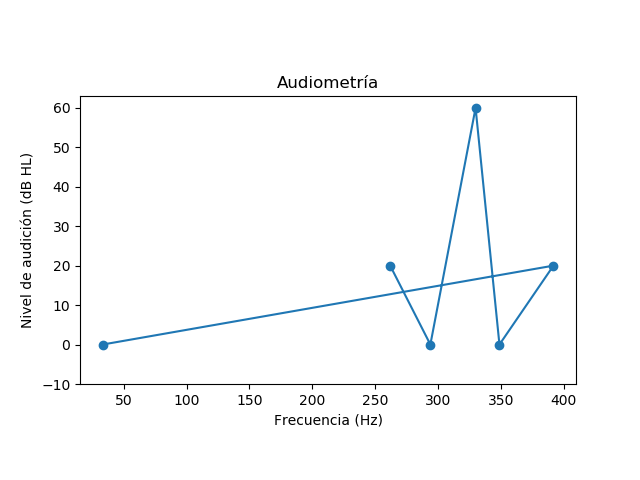
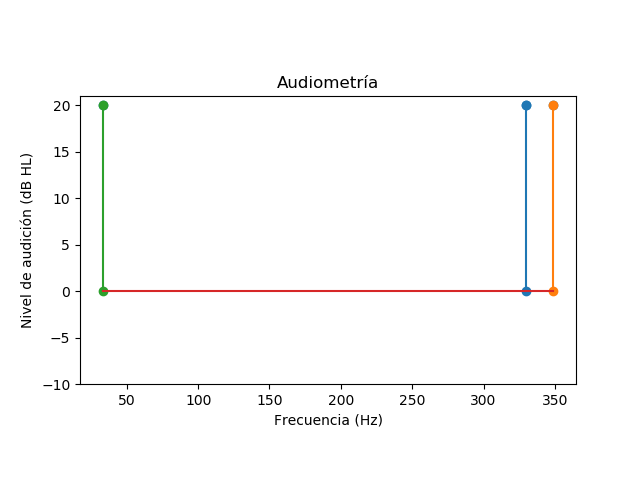
fin

diff --git a/main.py b/main.py
@@ -3,6 +3,7 @@ import AtmelCom
 import time
 import numpy as np
 import utils
+from datetime import datetime
 
 
 th = 900 # threshold de corriente de pulsacion, default 700
@@ -55,10 +56,10 @@ while True:
 
                 if len(results) < 5:
                     utils.insert(freq[cf], duracionplay, dbi[cdbi], 1)
-                    results.append([freq[cf], dbi[cdbi]])
+                    results.append([freq[cf], dbi[cdbi], 1])
                 else:
                     utils.insert(f, duracionplay, i, 1)
-                    results.append([f, i])
+                    results.append([f, i, 1])
         elif btn == 2:
             if repr:
                 print(f"No ha escuchado {ffm}")
@@ -66,17 +67,19 @@ while True:
 
                 if len(results) < 5:
                     utils.insert(freq[cf], duracionplay, dbi[cdbi], 0)
-                    results.append([freq[cf], 0])
+                    results.append([freq[cf], dbi[cdbi], 0])
                 else:
                     utils.insert(f, duracionplay, i, 0)
-                    results.append([f, 0])
+                    results.append([f, i, 0])
 
         if len(results) >= 5:
             s = input("Finalizar audiometria? (s/n): ").strip().lower() == 's'
 
             if s:
                 print("Guardando resultados...")
-                utils.generar_pdf_audiometria(results)
+                jklm = datetime.now().strftime('%Y-%m-%d %H:%M:%S')
+                utils.generar_pdf_audiometria([c[:2] for c in results if c[2] == 1], f'escuchadas-{jklm}')
+                utils.generar_pdf_audiometria([c[:2] for c in results if c[2] != 1], f'no-escuchadas-{jklm}')
                 print("Audiometria finalizada...")
                 exit()
 

diff --git a/utils.py b/utils.py
@@ -37,7 +37,7 @@ def select():
     conn.close()
     return ret
 
-def generar_pdf_audiometria(resultados_audiometria):
+def generar_pdf_audiometria(resultados_audiometria, pref):
     # Crear la figura de Matplotlib
     fig, ax = plt.subplots()
     ax.set_xlabel('Frecuencia (Hz)')
@@ -53,10 +53,10 @@ def generar_pdf_audiometria(resultados_audiometria):
     fig.subplots_adjust(top=0.8, bottom=0.2)
     
     # Generar el PDF con la imagen de Matplotlib y la fecha y hora actual centradas
-    nombre_archivo = f'Audiometria_{fecha_hora_actual}.pdf'
+    nombre_archivo = f'Audiometria_{pref}.pdf'
     c = canvas.Canvas(nombre_archivo)
     c.setFontSize(20)
-    c.drawCentredString(300, 750, f'Audiometría realizada el {fecha_hora_actual}')
+    c.drawCentredString(300, 750, f'Audiometría realizada - {pref}')
     plt.savefig('audiometria.png')
     c.drawInlineImage('audiometria.png', 100, 300, width=400, height=400)
     c.save()
